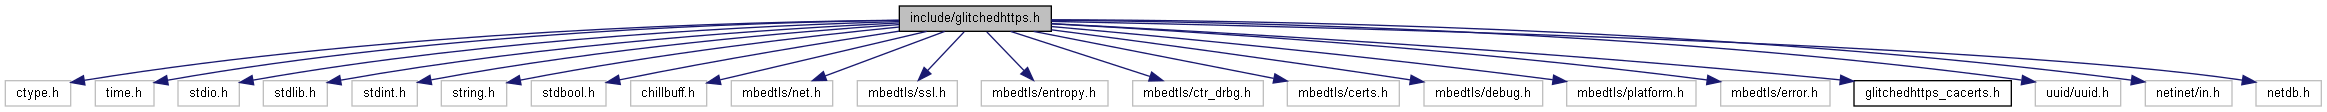
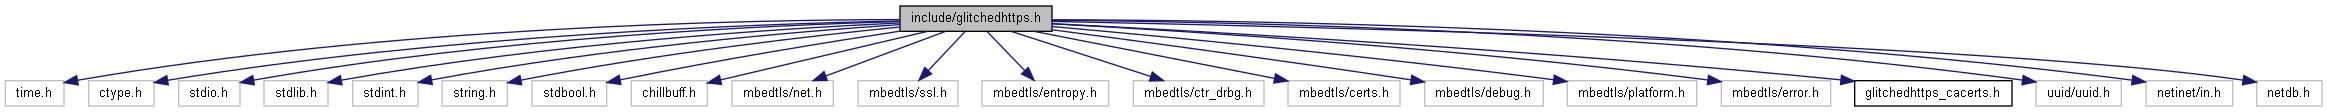
Cleanup.

diff --git a/docs/glitchedhttps_8h.html b/docs/glitchedhttps_8h.html
@@ -78,8 +78,8 @@ $(function() {
 
 <p>Simple, lightweight and straight-forward way of doing HTTP(S) requests with the help of ARM's open-source MbedTLS library.  
 <a href="#details">More...</a></p>
-<div class="textblock"><code>#include &lt;ctype.h&gt;</code><br />
-<code>#include &lt;time.h&gt;</code><br />
+<div class="textblock"><code>#include &lt;time.h&gt;</code><br />
+<code>#include &lt;ctype.h&gt;</code><br />
 <code>#include &lt;stdio.h&gt;</code><br />
 <code>#include &lt;stdlib.h&gt;</code><br />
 <code>#include &lt;stdint.h&gt;</code><br />
@@ -103,27 +103,27 @@ Include dependency graph for glitchedhttps.h:</div>
 <div class="dyncontent">
 <div class="center"><img src="glitchedhttps_8h__incl.png" border="0" usemap="#include_2glitchedhttps_8h" alt=""/></div>
 <map name="include_2glitchedhttps_8h" id="include_2glitchedhttps_8h">
-<area shape="rect" title="Simple, lightweight and straight&#45;forward way of doing HTTP(S) requests with the help of ARM&#39;s open&#45;so..." alt="" coords="899,5,1051,32"/>
-<area shape="rect" title=" " alt="" coords="5,80,71,107"/>
-<area shape="rect" title=" " alt="" coords="95,80,154,107"/>
-<area shape="rect" title=" " alt="" coords="178,80,239,107"/>
-<area shape="rect" title=" " alt="" coords="263,80,327,107"/>
-<area shape="rect" title=" " alt="" coords="352,80,417,107"/>
-<area shape="rect" title=" " alt="" coords="441,80,507,107"/>
-<area shape="rect" title=" " alt="" coords="531,80,606,107"/>
+<area shape="rect" title="Simple, lightweight and straight&#45;forward way of doing HTTP(S) requests with the help of ARM&#39;s open&#45;so..." alt="" coords="900,5,1052,32"/>
+<area shape="rect" title=" " alt="" coords="5,80,64,107"/>
+<area shape="rect" title=" " alt="" coords="89,80,154,107"/>
+<area shape="rect" title=" " alt="" coords="179,80,240,107"/>
+<area shape="rect" title=" " alt="" coords="264,80,328,107"/>
+<area shape="rect" title=" " alt="" coords="353,80,418,107"/>
+<area shape="rect" title=" " alt="" coords="442,80,507,107"/>
+<area shape="rect" title=" " alt="" coords="532,80,607,107"/>
 <area shape="rect" title=" " alt="" coords="631,80,707,107"/>
-<area shape="rect" title=" " alt="" coords="731,80,833,107"/>
-<area shape="rect" title=" " alt="" coords="857,80,957,107"/>
-<area shape="rect" title=" " alt="" coords="981,80,1108,107"/>
-<area shape="rect" title=" " alt="" coords="1133,80,1263,107"/>
-<area shape="rect" title=" " alt="" coords="1287,80,1399,107"/>
-<area shape="rect" title=" " alt="" coords="1424,80,1543,107"/>
-<area shape="rect" title=" " alt="" coords="1567,80,1696,107"/>
-<area shape="rect" title=" " alt="" coords="1721,80,1830,107"/>
-<area shape="rect" href="glitchedhttps__cacerts_8h_source.html" title=" " alt="" coords="1854,80,2011,107"/>
-<area shape="rect" title=" " alt="" coords="2035,80,2121,107"/>
-<area shape="rect" title=" " alt="" coords="2145,80,2232,107"/>
-<area shape="rect" title=" " alt="" coords="2256,80,2321,107"/>
+<area shape="rect" title=" " alt="" coords="732,80,833,107"/>
+<area shape="rect" title=" " alt="" coords="858,80,958,107"/>
+<area shape="rect" title=" " alt="" coords="982,80,1109,107"/>
+<area shape="rect" title=" " alt="" coords="1133,80,1264,107"/>
+<area shape="rect" title=" " alt="" coords="1288,80,1400,107"/>
+<area shape="rect" title=" " alt="" coords="1425,80,1543,107"/>
+<area shape="rect" title=" " alt="" coords="1567,80,1697,107"/>
+<area shape="rect" title=" " alt="" coords="1721,80,1831,107"/>
+<area shape="rect" href="glitchedhttps__cacerts_8h_source.html" title=" " alt="" coords="1855,80,2012,107"/>
+<area shape="rect" title=" " alt="" coords="2036,80,2121,107"/>
+<area shape="rect" title=" " alt="" coords="2146,80,2233,107"/>
+<area shape="rect" title=" " alt="" coords="2257,80,2322,107"/>
 </map>
 </div>
 </div>

diff --git a/docs/glitchedhttps_8h_source.html b/docs/glitchedhttps_8h_source.html
@@ -92,8 +92,8 @@ $(function() {
 <div class="line"><a name="l00029"></a><span class="lineno">   29</span>&#160;<span class="keyword">extern</span> <span class="stringliteral">&quot;C&quot;</span> {</div>
 <div class="line"><a name="l00030"></a><span class="lineno">   30</span>&#160;<span class="preprocessor">#endif</span></div>
 <div class="line"><a name="l00031"></a><span class="lineno">   31</span>&#160; </div>
-<div class="line"><a name="l00032"></a><span class="lineno">   32</span>&#160;<span class="preprocessor">#include &lt;ctype.h&gt;</span></div>
-<div class="line"><a name="l00033"></a><span class="lineno">   33</span>&#160;<span class="preprocessor">#include &lt;time.h&gt;</span></div>
+<div class="line"><a name="l00032"></a><span class="lineno">   32</span>&#160;<span class="preprocessor">#include &lt;time.h&gt;</span></div>
+<div class="line"><a name="l00033"></a><span class="lineno">   33</span>&#160;<span class="preprocessor">#include &lt;ctype.h&gt;</span></div>
 <div class="line"><a name="l00034"></a><span class="lineno">   34</span>&#160;<span class="preprocessor">#include &lt;stdio.h&gt;</span></div>
 <div class="line"><a name="l00035"></a><span class="lineno">   35</span>&#160;<span class="preprocessor">#include &lt;stdlib.h&gt;</span></div>
 <div class="line"><a name="l00036"></a><span class="lineno">   36</span>&#160;<span class="preprocessor">#include &lt;stdint.h&gt;</span></div>
@@ -352,7 +352,7 @@ $(function() {
 <div class="line"><a name="l00394"></a><span class="lineno">  394</span>&#160; </div>
 <div class="line"><a name="l00395"></a><span class="lineno">  395</span>&#160;    <span class="keywordflow">for</span> (<span class="keywordtype">size_t</span> i = 0; i &lt; response-&gt;<a class="code" href="structglitched__http__response.html#ad00ffbfc9ca73c053307406343a28c1f">headers_count</a>; i++)</div>
 <div class="line"><a name="l00396"></a><span class="lineno">  396</span>&#160;    {</div>
-<div class="line"><a name="l00397"></a><span class="lineno">  397</span>&#160;        free(&amp;response-&gt;<a class="code" href="structglitched__http__response.html#af0d540edc12990252f046cb3bf087163">headers</a>[i]);</div>
+<div class="line"><a name="l00397"></a><span class="lineno">  397</span>&#160;        <a class="code" href="glitchedhttps_8h.html#a82bfb70afd4021aeacd9055a7c908eba">glitched_http_header_free</a>(&amp;(response-&gt;<a class="code" href="structglitched__http__response.html#af0d540edc12990252f046cb3bf087163">headers</a>[i]));</div>
 <div class="line"><a name="l00398"></a><span class="lineno">  398</span>&#160;    }</div>
 <div class="line"><a name="l00399"></a><span class="lineno">  399</span>&#160; </div>
 <div class="line"><a name="l00400"></a><span class="lineno">  400</span>&#160;    free(response);</div>

diff --git a/include/glitchedhttps.h b/include/glitchedhttps.h
@@ -52,10 +52,6 @@ extern "C" {
 #include <winsock.h>
 #endif
 
-/* -------------------------------------------------------------------------------------------------------------------- */
-/* -------------------------------------------------------------------------------------------------------------------- */
-/* -------------------------------------------------------------------------------------------------------------------- */
-
 /** @private */
 void (*_glitched_http_error_callback)(const char*) = NULL;
 
